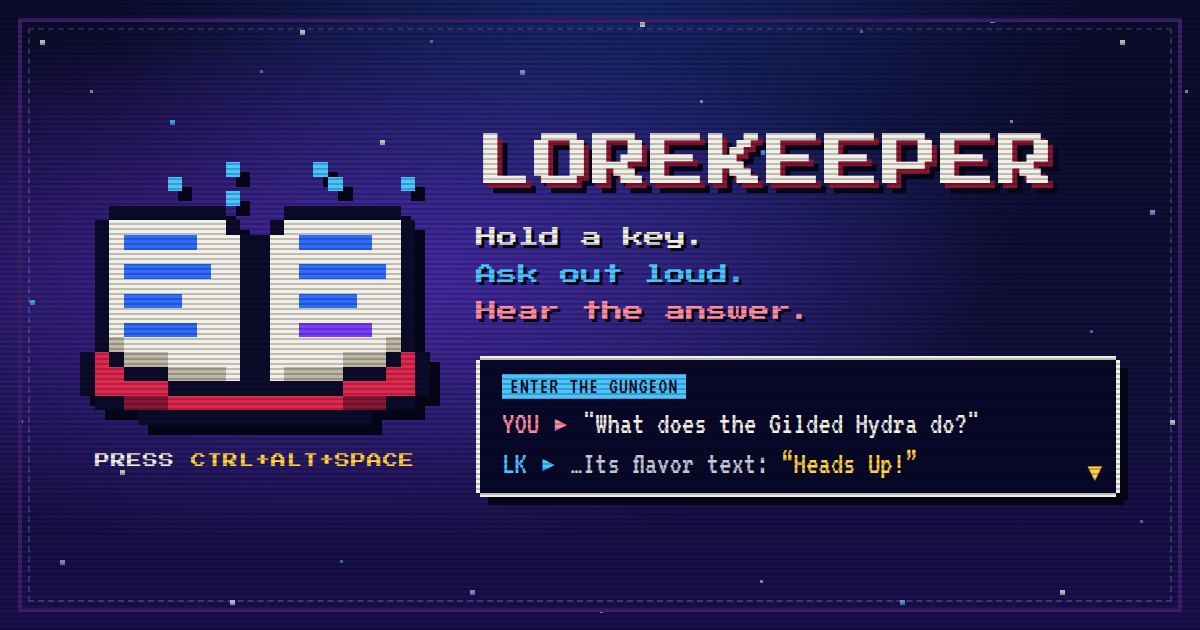
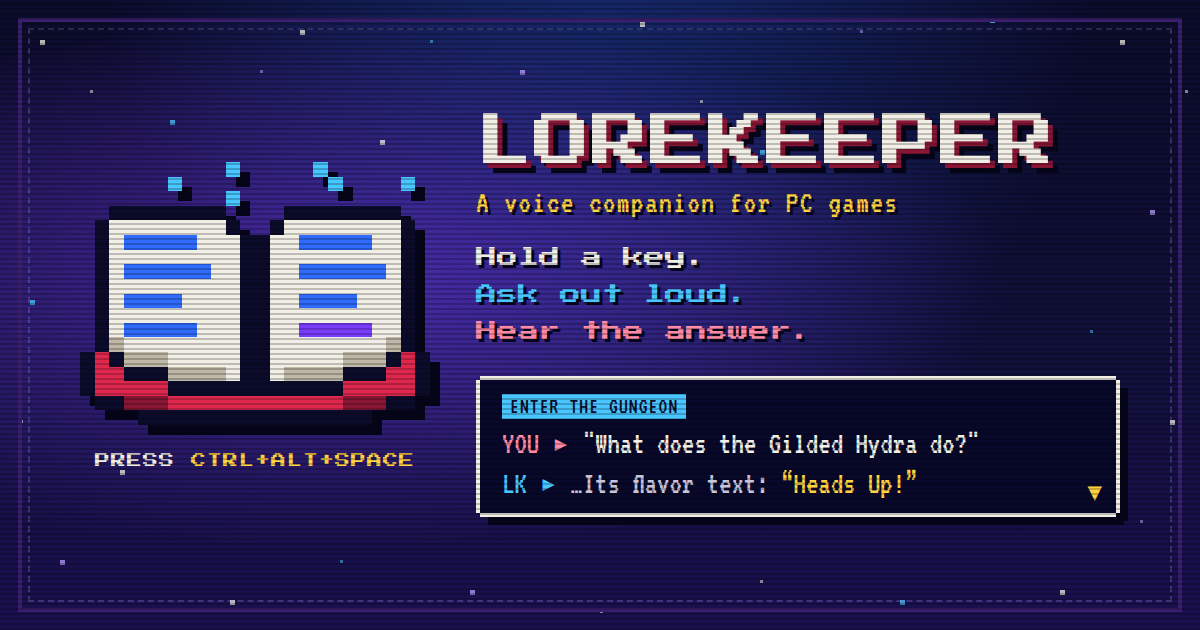
Share cards: say it's for PC games; hero lines on the Discord card

Changed region(s): [[0.37, 0.181, 0.9558, 0.8444]]

diff --git a/docs/index.html b/docs/index.html
@@ -4,21 +4,21 @@
 <meta charset="utf-8">
 <meta name="viewport" content="width=device-width, initial-scale=1">
 <title>Lorekeeper</title>
-<meta name="description" content="Lorekeeper is a Windows voice companion for video games. Hold a key, ask out loud, hear the answer: it knows which game you're in, reads that game's wiki, and answers in your ear without spoilers.">
+<meta name="description" content="Lorekeeper is a voice companion for PC games. Hold a key, ask out loud, hear the answer. Lore, quest help, item facts and clips, just by asking out loud. It knows the game you're in, sees your screen, and never spoils what's ahead.">
 <link rel="canonical" href="https://lorekeeper-cgv.pages.dev/">
 <meta property="og:type" content="website">
 <meta property="og:site_name" content="Lorekeeper">
-<meta property="og:title" content="Lorekeeper: your game's wiki, out loud">
-<meta property="og:description" content="Hold a key, ask out loud, hear the answer: a spoiler-safe voice companion that reads your game's wiki and answers in your ear.">
+<meta property="og:title" content="Lorekeeper: a voice companion for PC games">
+<meta property="og:description" content="Lore, quest help, item facts and clips, just by asking out loud. It knows the game you're in, sees your screen, and never spoils what's ahead.">
 <meta property="og:url" content="https://lorekeeper-cgv.pages.dev/">
-<meta property="og:image" content="https://lorekeeper-cgv.pages.dev/og/card.png">
+<meta property="og:image" content="https://lorekeeper-cgv.pages.dev/og/card.png?v=2">
 <meta property="og:image:width" content="1200">
 <meta property="og:image:height" content="630">
 <meta property="og:image:alt" content="Pixel-art open book beside the word LOREKEEPER and the tagline: Hold a key. Ask out loud. Hear the answer.">
 <meta name="twitter:card" content="summary_large_image">
-<meta name="twitter:title" content="Lorekeeper: your game's wiki, out loud">
-<meta name="twitter:description" content="Hold a key, ask out loud, hear the answer: a spoiler-safe voice companion that reads your game's wiki and answers in your ear.">
-<meta name="twitter:image" content="https://lorekeeper-cgv.pages.dev/og/card.png">
+<meta name="twitter:title" content="Lorekeeper: a voice companion for PC games">
+<meta name="twitter:description" content="Lore, quest help, item facts and clips, just by asking out loud. It knows the game you're in, sees your screen, and never spoils what's ahead.">
+<meta name="twitter:image" content="https://lorekeeper-cgv.pages.dev/og/card.png?v=2">
 <meta name="twitter:image:alt" content="Pixel-art open book beside the word LOREKEEPER and the tagline: Hold a key. Ask out loud. Hear the answer.">
 <meta name="theme-color" content="#7a3cff">
 <link rel="icon" href="img/favicon.svg" type="image/svg+xml">
@@ -368,7 +368,7 @@ footer p { margin: 0; }
     <div>
       <p class="kicker">A voice companion for PC games &middot; Windows</p>
       <h1><span>Hold a key.</span><span class="c2">Ask out loud.</span><span class="c3">Hear the answer.</span></h1>
-      <p class="lede">Lorekeeper <strong>knows which game you're in</strong>, reads that game's wiki, and answers in your ear, <strong>without spoilers</strong>. No alt-tabbing, no scrolling past the ending to find one item.</p>
+      <p class="lede">Lorekeeper <strong>knows which game you're in</strong> and answers in your ear: lore, quest steps, items and builds, even clipping the moment. All <strong>without spoilers</strong>, and no alt-tabbing.</p>
       <div class="ctas">
         <a class="btn px primary" href="#install"><span class="arr" aria-hidden="true"></span>Install</a>
         <a class="btn px secondary" href="https://github.com/FindlayHi/lorekeeper">View on GitHub</a>

diff --git a/docs/og/discord.html b/docs/og/discord.html
@@ -52,13 +52,15 @@ html, body { margin:0; padding:0; background:#000; }
 .content {
   position:absolute; z-index:2; inset:0; display:flex; flex-direction:column; align-items:center; justify-content:center; text-align:center;
 }
-.mascot { width:420px; height:auto; image-rendering:pixelated; filter:drop-shadow(12px 12px 0 var(--shadow)); margin-bottom:34px; }
+.mascot { width:270px; height:auto; image-rendering:pixelated; filter:drop-shadow(12px 12px 0 var(--shadow)); margin-bottom:26px; }
 h1 {
-  font-family:"Press Start 2P"; font-weight:400; font-size:84px; line-height:1; margin:0 0 34px; letter-spacing:2px;
+  font-family:"Press Start 2P"; font-weight:400; font-size:84px; line-height:1; margin:0 0 16px; letter-spacing:2px;
   text-shadow:6px 6px 0 var(--crimson-dark), 12px 12px 0 var(--shadow);
 }
-.hook { font-family:"Press Start 2P"; font-size:32px; line-height:1.4; margin:0; color:var(--sky); text-shadow:4px 4px 0 var(--shadow); }
+.hook { font-family:"Press Start 2P"; font-size:30px; line-height:1.5; margin:0; color:var(--sky); text-shadow:4px 4px 0 var(--shadow); }
 .hook b { color:#ffd23f; font-weight:400; }
+.hook .h1 { color:var(--ink); } .hook .h2 { color:var(--sky); } .hook .h3 { color:#ff8aa4; }
+.kicker { font-family:"VT323", monospace; font-size:62px; line-height:1; margin:0 0 22px; color:#ffd23f; letter-spacing:.04em; text-shadow:3px 3px 0 var(--shadow); }
 </style>
 </head>
 <body>
@@ -68,7 +70,8 @@ h1 {
   <div class="content">
     <img class="mascot" src="../img/book.svg" alt="" width="420" height="315">
     <h1>LOREKEEPER</h1>
-    <p class="hook">Your game's wiki, <b>out loud.</b></p>
+      <p class="kicker">A voice companion for PC games</p>
+    <p class="hook"><span class="h1">Hold a key.</span><br><span class="h2">Ask out loud.</span><br><span class="h3">Hear the answer.</span></p>
   </div>
   <div class="crt"></div>
 </div>

diff --git a/docs/og/card.html b/docs/og/card.html
@@ -48,7 +48,7 @@ html, body { margin:0; padding:0; background:#000; }
 .press { font-family:"Press Start 2P"; font-size:15px; letter-spacing:1px; margin:0; }
 .press .k { color:#ffd23f; }
 h1 {
-  font-family:"Press Start 2P"; font-weight:400; font-size:57px; line-height:1; margin:0 0 30px;
+  font-family:"Press Start 2P"; font-weight:400; font-size:57px; line-height:1; margin:0 0 16px;
   text-shadow:5px 5px 0 var(--crimson-dark), 10px 10px 0 var(--shadow); letter-spacing:1px;
 }
 .tag { font-family:"Press Start 2P"; font-size:21px; line-height:1.75; margin:0 0 30px; text-shadow:3px 3px 0 var(--shadow); }
@@ -68,6 +68,7 @@ h1 {
 .dialog .lk b { color:var(--sky); font-weight:400; }
 .dialog .lk q { color:#ffd23f; }
 .dialog .cur { position:absolute; right:14px; bottom:6px; color:#ffd23f; font-size:24px; }
+.kicker { font-family:"VT323", monospace; font-size:32px; line-height:1; margin:0 0 22px; color:#ffd23f; letter-spacing:.04em; text-shadow:3px 3px 0 var(--shadow); }
 </style>
 </head>
 <body>
@@ -81,6 +82,7 @@ h1 {
     </div>
     <div>
       <h1>LOREKEEPER</h1>
+      <p class="kicker">A voice companion for PC games</p>
       <p class="tag"><span class="c1">Hold a key.</span><span class="c2">Ask out loud.</span><span class="c3">Hear the answer.</span></p>
       <div class="dialog">
         <span class="game">ENTER THE GUNGEON</span>

diff --git a/functions/_middleware.js b/functions/_middleware.js
@@ -1,6 +1,6 @@
 // Discord shows og:image small inside its embed, so serve it a punchier 16:9 card.
 // Every other request passes through untouched.
-const DISCORD_IMAGE = "https://lorekeeper-cgv.pages.dev/og/discord.png";
+const DISCORD_IMAGE = "https://lorekeeper-cgv.pages.dev/og/discord.png?v=3";   // bump ?v= when the image changes: Discord caches images by URL
 
 const setContent = (value) => ({
   element(el) { el.setAttribute("content", value); },

diff --git a/README.md b/README.md
@@ -2,7 +2,7 @@
 
 <p align="center">
   Hold <kbd>Ctrl</kbd> <kbd>Alt</kbd> <kbd>Space</kbd> in any game, ask out loud, let go.<br>
-  Lorekeeper knows which game you're in, reads that game's wiki, and answers in your ear, <b>without spoilers</b>.
+  <b>A voice companion for PC games.</b> Lore, quest steps, items and builds, even clipping the moment,<br>answered in your ear for the game you're in, <b>without spoilers</b>.
 </p>
 
 <p align="center">
